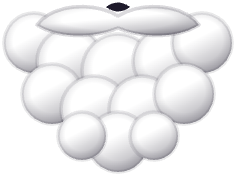
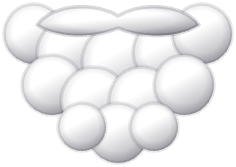
꾸미기 피드백 반영: 뽀글펌 · 야구모자 다시 그리기 · 입 아이템 빼기 · 배경 효과 분리
- 뽀글 펌: 뭉게뭉게 한 덩어리 + 소용돌이 컬 · 앞머리 컬 줄
- 야구 모자: 앞을 보는 챙 · P 로고 패치
- 입(검정 V)이 이미 있어서 방긋 입 · 메롱 빼고 반창고 · 외알 안경 추가 · 산타 수염에 그렸던 입 지우기
- 반짝 · 하트 · 음표는 배경 탭의 '배경 효과'로 옮기고 액세서리에 넥타이 · 진주 목걸이 · 손목시계 추가
- '손' 탭 이름을 '아이템'으로 · 타일은 아이템 크기에 맞춰 잘리지 않게

diff --git a/mobile/scripts/av-art/art.js b/mobile/scripts/av-art/art.js
@@ -42,6 +42,10 @@
   const ln = (d, c, w, o = {}) => `<path d="${d}" fill="none" stroke="${c}" stroke-width="${w}" stroke-linecap="${o.cap || 'round'}" stroke-linejoin="round"${o.op != null ? ` stroke-opacity="${o.op}"` : ''}${o.da ? ` stroke-dasharray="${o.da}"` : ''}/>`;
   const fl = (d, c, op) => `<path d="${d}" fill="${c}"${op != null ? ` opacity="${op}"` : ''}/>`;
   const sp = (x, y, r, c = '#fff') => `<path d="${star(x, y, r, 0.28, 4, -90)}" fill="${c}"/>`;   // 반짝 별(4갈래)
+  /** 뭉게뭉게 테두리 (타원 둘레에 작은 원호 n 개 · 뽀글 머리 · 구름) */
+  const scallop = (cx, cy, rx, ry, n, b) => { const p = (i) => { const a = (i / n) * Math.PI * 2; return `${r1(cx + Math.cos(a) * rx)} ${r1(cy + Math.sin(a) * ry)}`; }; return `M${p(0)}` + [...Array(n)].map((_, i) => `A${b} ${b} 0 0 1 ${p(i + 1)}`).join('') + 'Z'; };
+  /** 작은 소용돌이 컬 */
+  const curl = (x, y, r) => `M${x - r} ${y}a${r} ${r} 0 1 1 ${r} ${r}a${r * 0.55} ${r * 0.55} 0 1 1 ${-r * 0.4} ${-r * 0.9}`;
   const rng = (n, f) => [...Array(n)].map((_, i) => f(i)).join('');
 
   // ---------------------------------------------------------------- 팔 · 다리 띠 (옷 · 장갑 · 신발 자리)
@@ -83,13 +87,14 @@
       P(rr(198, -10, 204, 48, 22), '#FFF4D6') + rng(19, (i) => ln(`M${208 + i * 10} -2 L${208 + i * 10} 30`, INK, 2.4, { op: 0.1 })) +
       P(ell(300, -108, 30, 28), '#FFF4D6') + rng(8, (i) => { const a = (i / 8) * Math.PI * 2; return `<circle cx="${r1(300 + Math.cos(a) * 18)}" cy="${r1(-108 + Math.sin(a) * 16)}" r="3" fill="${INK}" opacity=".07"/>`; }) +
       gl(262, -66, 18, 7, -40, 0.5) },
-    { id: 'h-cap', cover: true, clipY: 36, name: '야구 모자', price: 120, rare: '일반', art: () =>
-      P('M212 30 C208 -52 254 -88 304 -88 C354 -88 394 -52 390 30 Z', '#7FA7E8') +
-      ln('M304 -86 Q300 -30 300 28', INK, 3, { op: 0.16 }) + ln('M304 -86 Q256 -40 240 28', INK, 3, { op: 0.13 }) + ln('M304 -86 Q352 -40 364 28', INK, 3, { op: 0.13 }) +
-      P(star(272, -30, 22, 0.45), '#FFE200', { rim: 0.25 }) +
-      P(ell(304, -90, 10, 6), '#493087') +
-      P('M296 12 C360 -2 436 0 476 20 C484 32 470 44 446 44 C404 42 350 36 296 38 Z', '#493087') +
-      gl(256, -54, 22, 8, -38, 0.5) },
+    { id: 'h-cap', cover: true, clipY: 30, name: '야구 모자', price: 120, rare: '일반', art: () =>
+      P('M214 14 C210 -66 254 -100 300 -100 C346 -100 390 -66 386 14 Z', '#5B8DEF') +
+      ln('M300 -100 Q298 -40 300 12', INK, 3, { op: 0.16 }) + ln('M300 -100 Q250 -56 236 12', INK, 2.6, { op: 0.13 }) + ln('M300 -100 Q350 -56 364 12', INK, 2.6, { op: 0.13 }) +
+      `<circle cx="252" cy="-30" r="3" fill="${INK}" opacity=".18"/><circle cx="348" cy="-30" r="3" fill="${INK}" opacity=".18"/>` +
+      P(ell(300, -102, 11, 6), '#FFFFFF') +
+      P(ell(300, -42, 26, 26), '#FFFFFF', { rim: 0.2 }) + `<text x="300" y="-32" text-anchor="middle" font-family="Arial Black, Arial, sans-serif" font-weight="900" font-size="30" fill="#E5484D">P</text>` +
+      P('M188 10 Q300 -16 412 10 Q428 34 300 40 Q172 34 188 10 Z', '#2F4A8C', { rim: 0.3 }) + ln('M200 14 Q300 -6 400 14', '#FFFFFF', 3, { op: 0.35 }) +
+      gl(254, -66, 20, 8, -38, 0.5) },
     { id: 'h-beret', cover: true, clipY: 40, name: '화가 베레모', price: 120, rare: '일반', art: () =>
       P('M216 24 Q300 44 384 22 L384 36 Q300 58 216 38 Z', '#3A2570') +
       P(ell(312, -12, 110, 40), '#5B3FA6', { t: 'rotate(-9 312 -12)' }) +
@@ -163,8 +168,9 @@
       Hp('M202 50 C196 -40 404 -40 398 50 Z', H) + P(ell(228, 4, 14, 18), '#FFE200', { t: 'rotate(-20 228 4)' }) + st('M116 -2 Q140 -26 178 -24', 0.4, 5),
       front: (H) => Hp('M208 34 C206 -8 300 -28 392 18 C356 6 318 10 292 28 C272 14 238 18 208 34 Z', H, { hi: 0.7 }) },
     { id: 'hr-curly', name: '뽀글 펌', price: 200, rare: '레어', back: (H) =>
-      Hp('M196 52 C176 20 190 -20 214 -26 C214 -60 250 -80 276 -70 C290 -96 330 -96 344 -72 C372 -82 404 -58 392 -24 C418 -16 424 24 404 52 Z', H) + [[232, -30], [278, -56], [326, -58], [370, -32], [216, 14], [390, 14]].map(([x, y]) => ln(`M${x - 10} ${y + 6} q10 -14 20 0`, '#fff', 4, { op: 0.35 })).join(''),
-      front: (H) => [[232, 16, 17], [264, 6, 19], [300, 8, 17], [336, 6, 19], [368, 16, 17]].map(([x, y, r]) => Hp(ell(x, y, r, r), H, { rim: 0.16 })).join('') },
+      Hp(scallop(300, -20, 124, 92, 18, 24), H) +
+      [[240, -60], [290, -82], [344, -70], [384, -30], [214, -10], [262, -24], [318, -40], [366, 6], [228, 30], [392, 34]].map(([x, y], i) => ln(curl(x, y, 8 + (i % 3) * 2), INK, 3, { op: 0.18 }) + ln(`M${x - 6} ${y - 6} q5 -5 11 -3`, '#fff', 3.5, { op: 0.45 })).join(''),
+      front: (H) => Hp('M210 30 C212 -16 388 -16 390 30' + [...Array(8)].map((_, i) => `A13 13 0 0 1 ${390 - (i + 1) * 22.5} 30`).join('') + 'Z', H, { hi: 0.7 }) + [[236, 10], [276, 2], [318, 2], [360, 10]].map(([x, y]) => ln(curl(x, y, 7), INK, 2.6, { op: 0.16 })).join('') },
     { id: 'hr-long', name: '긴 생머리', price: 250, rare: '레어', back: (H) =>
       Hp('M194 60 C176 -48 424 -48 406 60 C424 122 446 186 440 250 C420 264 394 262 378 246 L300 110 L222 246 C206 262 180 264 160 250 C154 186 176 122 194 60 Z', H) + st('M424 150 Q436 200 430 238', 0.35, 5) + st('M176 150 Q166 200 170 238', 0.35, 5),
       front: (H) => Hp('M300 -24 C262 -24 222 -6 212 38 C210 52 208 62 202 72 C190 40 194 0 228 -20 C250 -30 280 -32 300 -24 Z', H, { hi: 0.6 }) + Hp('M300 -24 C338 -24 378 -6 388 38 C390 52 392 62 398 72 C410 40 406 0 372 -20 C350 -30 320 -32 300 -24 Z', H, { hi: 0.6 }) },
@@ -215,9 +221,11 @@
     { id: 'f-cheek', name: '발그레 볼', price: 0, rare: '기본', art: () => `<ellipse cx="230" cy="138" rx="30" ry="17" fill="url(#avBlush)"/><ellipse cx="372" cy="140" rx="30" ry="17" fill="url(#avBlush)"/>` + gl(222, 134, 5, 3, 0, 0.7) + gl(364, 136, 5, 3, 0, 0.7) },
     { id: 'f-cheek3', name: '하트 볼', price: 150, rare: '일반', art: () => `<ellipse cx="230" cy="138" rx="28" ry="15" fill="url(#avBlush)" opacity=".7"/><ellipse cx="372" cy="140" rx="28" ry="15" fill="url(#avBlush)" opacity=".7"/>` + P(heart(230, 140, 26), '#FF5C8A', { rim: 0.2 }) + P(heart(372, 142, 26), '#FF5C8A', { rim: 0.2 }) },
     { id: 'f-freck', name: '주근깨', price: 80, rare: '일반', art: () => [[214, 132], [226, 142], [238, 130], [222, 124], [362, 132], [374, 142], [386, 130], [378, 124]].map(([x, y], i) => `<circle cx="${x}" cy="${y}" r="${i % 3 ? 3 : 3.8}" fill="#A0582A" opacity=".75"/>`).join('') },
-    { id: 'f-smile', name: '방긋 입', price: 100, rare: '일반', art: () => P('M280 138 Q300 140 320 138 Q318 166 300 166 Q282 166 280 138 Z', '#5A1E2E', { rim: 0.4 }) + fl('M287 156 Q300 148 313 156 Q308 165 300 165 Q292 165 287 156 Z', '#FF7A8A') + gl(292, 143, 6, 2, 0, 0.6) },
-    { id: 'f-tongue', name: '메롱', price: 120, rare: '일반', art: () => P('M300 148 L300 166 Q300 180 310 180 Q320 180 320 166 L320 148 Z', '#FF6F8A', { rim: 0.3 }) + ln('M310 152 L310 168', '#C93D5A', 2.4, { op: 0.6 }) + ln('M278 144 Q300 156 324 142', INK, 5) },
-    { id: 'f-stache', name: '멋쟁이 콧수염', price: 120, rare: '일반', art: () => P('M300 136 C290 128 274 128 266 136 C258 144 246 144 240 136 C240 152 262 158 280 150 C290 146 296 142 300 142 C304 142 310 146 320 150 C338 158 360 152 360 136 C354 144 342 144 334 136 C326 128 310 128 300 136 Z', '#3B2A20', { rim: 0.3 }) + gl(276, 136, 8, 2.5, 0, 0.35) + gl(326, 136, 8, 2.5, 0, 0.35) },
+    { id: 'f-bandaid', name: '반창고', price: 80, rare: '일반', art: () => `<g transform="rotate(-22 374 136)">` + P(rr(344, 126, 60, 22, 11), '#F2C49B', { rim: 0.25 }) + P(rr(362, 128, 24, 18, 5), '#E3A97B', { rim: 0, hi: 0.3 }) + rng(4, (i) => `<circle cx="${366 + (i % 2) * 10}" cy="${133 + Math.floor(i / 2) * 8}" r="1.6" fill="#B97A52"/>`) + `</g>` },
+    { id: 'f-mono', name: '외알 안경', price: 250, rare: '레어', art: () =>
+      `<path d="${ell(341, 67, 50, 64)}" fill="url(#avGlass)"/>` + `<path d="${ell(341, 67, 50, 64)} ${ell(341, 67, 42, 56)}" fill="url(#avGold)" fill-rule="evenodd"/>` + `<path d="${ell(341, 67, 50, 64)}" fill="none" stroke="${INK}" stroke-opacity=".3" stroke-width="2"/>` +
+      ln('M384 98 Q404 150 380 196', '#E0A21A', 3, { da: '1 6' }) + ln('M384 98 Q404 150 380 196', '#FFCB2E', 2.4, { da: '4 4' }) + ln('M314 30 Q326 14 344 10', '#fff', 4, { op: 0.75 }) + ln('M322 118 l16 -34', '#fff', 5, { op: 0.4 }) },
+    { id: 'f-stache', name: '멋쟁이 콧수염', price: 120, rare: '일반', art: () => '<g transform="translate(0 8)">' + P('M300 136 C290 128 274 128 266 136 C258 144 246 144 240 136 C240 152 262 158 280 150 C290 146 296 142 300 142 C304 142 310 146 320 150 C338 158 360 152 360 136 C354 144 342 144 334 136 C326 128 310 128 300 136 Z', '#3B2A20', { rim: 0.3 }) + gl(276, 136, 8, 2.5, 0, 0.35) + gl(326, 136, 8, 2.5, 0, 0.35) + '</g>' },
     { id: 'f-glasses', name: '동그란 안경', price: 200, rare: '일반', art: () =>
       `<path d="${ell(257, 66, 52, 66)}" fill="url(#avGlass)"/><path d="${ell(341, 67, 52, 66)}" fill="url(#avGlass)"/>` +
       `<path d="${ell(257, 66, 52, 66)} ${ell(257, 66, 44, 58)}" fill="#8A5A3B" fill-rule="evenodd"/><path d="${ell(341, 67, 52, 66)} ${ell(341, 67, 44, 58)}" fill="#8A5A3B" fill-rule="evenodd"/>` +
@@ -231,15 +239,15 @@
       ln('M200 18 Q260 8 330 30 L420 58', INK, 7) + P(ell(340, 68, 42, 60), '#2A2533', { rim: 0.4 }) + P(star(340, 66, 13, 0.42), '#FFFFFF', { rim: 0, flat: 1 }) + ln('M330 18 L420 58', '#2A2533', 7) },
     { id: 'f-beard', name: '산타 수염', price: 0, rare: '시즌', lock: '12월 출석 7일 보상', art: () =>
       [[244, 152, 20], [268, 164, 22], [300, 170, 24], [332, 164, 22], [356, 152, 20], [256, 186, 20], [284, 196, 22], [316, 196, 22], [344, 186, 20], [300, 218, 20], [276, 214, 16], [324, 214, 16]].map(([x, y, r]) => P(ell(x, y, r, r), '#FFFFFF', { rim: 0.1, hi: 0.5 })).join('') +
-      P('M300 134 C284 124 256 126 246 140 C262 150 286 148 300 142 C314 148 338 150 354 140 C344 126 316 124 300 134 Z', '#FFFFFF', { rim: 0.16 }) + `<path d="M292 128 q8 -6 16 0 q-8 6 -16 0Z" fill="${INK}"/>` },
+      P('M300 140 C284 130 256 132 246 146 C262 156 286 154 300 148 C314 154 338 156 354 146 C344 132 316 130 300 140 Z', '#FFFFFF', { rim: 0.16 }) },
   ];
 
   // ---------------------------------------------------------------- 옷 (몸에 칠해요)
   const pants = (s1 = 0.86) => `${band('ll', 0.26, s1, 0.04, 0.03)} ${band('lr', 0.26, s1, 0.04, 0.03)} M96 190 H420 V236 H96 Z`;
   const WEARS = [
     { id: 'w-tee', name: '줄무늬 티셔츠', price: 0, rare: '기본', art: () => paint(
-      fl(top(112, 400), '#FFFFFF') + `<clipPath id="tc${U}"><path d="${top(112, 400)}" fill-rule="evenodd"/></clipPath>` +
-      `<g clip-path="url(#tc${U})">${rng(9, (i) => fl(`M0 ${-4 + i * 26} H520 V${12 + i * 26} H0Z`, '#2F4A8C'))}</g>` +
+      fl(top(112, 400), '#FFFFFF') + `<clipPath id="te${U}"><path d="${top(112, 400)}" fill-rule="evenodd"/></clipPath>` +
+      `<g clip-path="url(#te${U})">${rng(9, (i) => fl(`M0 ${-4 + i * 26} H520 V${12 + i * 26} H0Z`, '#2F4A8C'))}</g>` +
       ln(NECK.replace(' Z', ''), '#2F4A8C', 12) + ln('M112 40 Q122 112 112 184', '#E5484D', 18, { cap: 'butt' }) + ln('M400 40 Q390 112 400 184', '#E5484D', 18, { cap: 'butt' })) },
     { id: 'w-hoodie', name: '포근 후드티', price: 200, rare: '일반', art: () => paint(
       `<path d="${top(56, 446, 216)}" fill="#B9A7F0" fill-rule="evenodd"/>` +
@@ -411,9 +419,19 @@
     { id: 'a-bag', name: '미니 크로스백', price: 200, rare: '일반', layer: 'front', art: () =>
       ln('M402 50 C392 140 320 176 196 196', '#8A5A3B', 10) + ln('M402 50 C392 140 320 176 196 196', '#FFFFFF', 2, { op: 0.4, da: '4 6' }) +
       P(rr(132, 176, 92, 70, 18), '#C68B4E') + P('M132 196 Q132 176 152 176 L204 176 Q224 176 224 196 L224 214 Q178 234 132 214 Z', '#A86E38') + P(rr(170, 208, 16, 14, 4), 'url(#avGold)') },
-    { id: 'a-spark', name: '반짝반짝 효과', price: 400, rare: '에픽', layer: 'fx', art: () => FX([[38, 40, 13, '#FFE200'], [262, 54, 11, '#FFE200'], [30, 160, 9, '#FFFFFF'], [272, 166, 12, '#FFE200'], [150, 22, 8, '#FFFFFF'], [228, 22, 6, '#FFFFFF'], [70, 96, 6, '#FFE200']].map(([x, y, r, c]) => P(star(x, y, r * 2, 0.26, 4, -90), c, { rim: 0.35, sw: 1.6 })).join('')) },
-    { id: 'a-hearts', name: '하트 뿅뿅', price: 400, rare: '에픽', layer: 'fx', art: () => FX([[44, 60, 34], [256, 44, 28], [266, 160, 38], [34, 168, 24], [210, 22, 18], [96, 26, 16]].map(([x, y, s], i) => glossHeart(x, y, s, i % 2 ? '#FF7AA3' : '#FF5C8A')).join('')) },
-    { id: 'a-notes', name: '음표 둥둥', price: 300, rare: '레어', layer: 'fx', art: () => FX([[48, 46, '#8B5CF6'], [250, 36, '#2F6FD0'], [262, 146, '#E5484D'], [36, 150, '#2DD4BF']].map(([x, y, c], i) => (i % 2 ? `<path d="M${x} ${y} L${x} ${y + 34} M${x + 26} ${y - 6} L${x + 26} ${y + 28}" stroke="${c}" stroke-width="5"/><path d="M${x - 2} ${y - 2} L${x + 28} ${y - 8} L${x + 28} ${y + 2} L${x - 2} ${y + 8}Z" fill="${c}"/>${P(ell(x - 7, y + 36, 10, 8), c, { t: `rotate(-20 ${x - 7} ${y + 36})` })}${P(ell(x + 19, y + 30, 10, 8), c, { t: `rotate(-20 ${x + 19} ${y + 30})` })}` : `<path d="M${x} ${y} L${x} ${y + 34}" stroke="${c}" stroke-width="5"/><path d="M${x} ${y} q16 4 18 22 q-6 -10 -18 -12z" fill="${c}"/>${P(ell(x - 7, y + 36, 10, 8), c, { t: `rotate(-20 ${x - 7} ${y + 36})` })}`)).join('')) },
+    { id: 'a-tie', name: '줄무늬 넥타이', price: 120, rare: '일반', layer: 'front', art: () => { const u = 'ti' + U++; return (
+      `<clipPath id="${u}"><path d="M288 176 L312 176 L320 232 L300 252 L280 232 Z"/></clipPath>` + P('M288 176 L312 176 L320 232 L300 252 L280 232 Z', '#2F4A8C') + `<g clip-path="url(#${u})">${rng(5, (i) => ln(`M270 ${186 + i * 16} L330 ${170 + i * 16}`, '#FFE200', 5, { op: 0.9 }))}</g>` + P('M286 160 L314 160 L310 178 L290 178 Z', '#24396E')); } },
+    { id: 'a-pearl', name: '진주 목걸이', price: 250, rare: '레어', layer: 'front', art: () =>
+      rng(17, (i) => { const t = i / 16, x = 212 + t * 176, y = 122 + Math.sin(t * Math.PI) * 52; return P(ell(r1(x), r1(y), 7, 7), '#FBF7F2', { rim: 0.2, hi: 0.9 }) + gl(r1(x - 2), r1(y - 2.5), 2, 1.4, 0, 0.95); }) + P(drop(300, 192, 14), '#F7B6CC', { rim: 0.25 }) + gl(296, 186, 3, 5, 0, 0.9) },
+    { id: 'a-watch', name: '손목시계', price: 150, rare: '일반', layer: 'front', art: () =>
+      P(rr(104, 56, 26, 112, 12), '#493087') + P(ell(117, 112, 24, 24), 'url(#avSilver)', { rim: 0.35 }) + P(ell(117, 112, 18, 18), '#FFFFFF', { rim: 0.2, hi: 0.4 }) + ln('M117 112 L117 100 M117 112 L126 117', INK, 3) + `<circle cx="117" cy="112" r="2.2" fill="#E5484D"/>` + gl(110, 104, 5, 3, -30, 0.8) },
+  ];
+
+  // ---------------------------------------------------------------- 배경 효과 (무대 위에 · 배경과 같이 써요)
+  const FXS = [
+    { id: 'fx-spark', name: '반짝반짝', price: 400, rare: '에픽', art: () => FX([[38, 40, 13, '#FFE200'], [262, 54, 11, '#FFE200'], [30, 160, 9, '#FFFFFF'], [272, 166, 12, '#FFE200'], [150, 22, 8, '#FFFFFF'], [228, 22, 6, '#FFFFFF'], [70, 96, 6, '#FFE200']].map(([x, y, r, c]) => P(star(x, y, r * 2, 0.26, 4, -90), c, { rim: 0.35, sw: 1.6 })).join('')) },
+    { id: 'fx-hearts', name: '하트 뿅뿅', price: 400, rare: '에픽', art: () => FX([[44, 60, 34], [256, 44, 28], [266, 160, 38], [34, 168, 24], [210, 22, 18], [96, 26, 16]].map(([x, y, s], i) => glossHeart(x, y, s, i % 2 ? '#FF7AA3' : '#FF5C8A')).join('')) },
+    { id: 'fx-notes', name: '음표 둥둥', price: 300, rare: '레어', art: () => FX([[48, 46, '#8B5CF6'], [250, 36, '#2F6FD0'], [262, 146, '#E5484D'], [36, 150, '#2DD4BF']].map(([x, y, c], i) => (i % 2 ? `<path d="M${x} ${y} L${x} ${y + 34} M${x + 26} ${y - 6} L${x + 26} ${y + 28}" stroke="${c}" stroke-width="5"/><path d="M${x - 2} ${y - 2} L${x + 28} ${y - 8} L${x + 28} ${y + 2} L${x - 2} ${y + 8}Z" fill="${c}"/>${P(ell(x - 7, y + 36, 10, 8), c, { t: `rotate(-20 ${x - 7} ${y + 36})` })}${P(ell(x + 19, y + 30, 10, 8), c, { t: `rotate(-20 ${x + 19} ${y + 30})` })}` : `<path d="M${x} ${y} L${x} ${y + 34}" stroke="${c}" stroke-width="5"/><path d="M${x} ${y} q16 4 18 22 q-6 -10 -18 -12z" fill="${c}"/>${P(ell(x - 7, y + 36, 10, 8), c, { t: `rotate(-20 ${x - 7} ${y + 36})` })}`)).join('')) },
   ];
 
   // ---------------------------------------------------------------- 배경 (무대 300 × 220 · 캐릭터 발밑 그림자 포함)
@@ -486,6 +504,7 @@
     ...cat(SHOES, 'shoe', 'paint'),
     ...cat(HANDS, 'hand', 'back'),
     ...cat(ACCS, 'acc', 'front'),
+    ...cat(FXS, 'fx', 'fx'),
   ];
   const V = '-140 -260 800 640';
   const svg = (body, vb = V) => `<svg xmlns="http://www.w3.org/2000/svg" viewBox="${vb}">${DEFS}${body}</svg>`;

diff --git a/mobile/src/components/character/av-assets.ts b/mobile/src/components/character/av-assets.ts
@@ -40,8 +40,8 @@ export const AV_ART: Record<string, number> = {
   'f-cheek': require('@/assets/characters/av/f-cheek.png'),
   'f-cheek3': require('@/assets/characters/av/f-cheek3.png'),
   'f-freck': require('@/assets/characters/av/f-freck.png'),
-  'f-smile': require('@/assets/characters/av/f-smile.png'),
-  'f-tongue': require('@/assets/characters/av/f-tongue.png'),
+  'f-bandaid': require('@/assets/characters/av/f-bandaid.png'),
+  'f-mono': require('@/assets/characters/av/f-mono.png'),
   'f-stache': require('@/assets/characters/av/f-stache.png'),
   'f-glasses': require('@/assets/characters/av/f-glasses.png'),
   'f-shades': require('@/assets/characters/av/f-shades.png'),
@@ -94,9 +94,12 @@ export const AV_ART: Record<string, number> = {
   'a-wings': require('@/assets/characters/av/a-wings.png'),
   'a-cape': require('@/assets/characters/av/a-cape.png'),
   'a-bag': require('@/assets/characters/av/a-bag.png'),
-  'a-spark': require('@/assets/characters/av/a-spark.png'),
-  'a-hearts': require('@/assets/characters/av/a-hearts.png'),
-  'a-notes': require('@/assets/characters/av/a-notes.png'),
+  'a-tie': require('@/assets/characters/av/a-tie.png'),
+  'a-pearl': require('@/assets/characters/av/a-pearl.png'),
+  'a-watch': require('@/assets/characters/av/a-watch.png'),
+  'fx-spark': require('@/assets/characters/av/fx-spark.png'),
+  'fx-hearts': require('@/assets/characters/av/fx-hearts.png'),
+  'fx-notes': require('@/assets/characters/av/fx-notes.png'),
 };
 
 export const AV_HAIR_FILL: Record<string, number> = {
@@ -136,7 +139,7 @@ export const AV_GEO: Record<string, AvGeo> = {
   'hr-bob': { k: 'hair', back: [0.3564, -0.1707, 0.441, 0.3956], front: [0.3846, -0.0683, 0.3846, 0.2711], cap: [0.3564, -0.004, 0.441, 0.2289], side: [0.3564, 0.0201, 0.441, 0.3012] },
   'hr-pig': { k: 'hair', back: [0.2013, -0.0683, 0.7513, 0.3112], front: [0.3987, -0.0763, 0.3564, 0.1747], cap: [0.2013, -0.0683, 0.7513, 0.3112], side: [0.3705, 0.0321, 0.4128, 0.1928] },
   'hr-pony': { k: 'hair', back: [0.1756, -0.1084, 0.5949, 0.3454], front: [0.3949, -0.0341, 0.3641, 0.1446], cap: [0.1756, -0.1084, 0.5949, 0.3454], side: [0.3705, 0.0321, 0.4128, 0.1928] },
-  'hr-curly': { k: 'hair', back: [0.3538, -0.2791, 0.4513, 0.4438], front: [0.4077, -0.0482, 0.3385, 0.1566], cap: [0.3538, -0.2269, 0.4513, 0.3916], side: [0.3564, 0.0482, 0.441, 0.2369] },
+  'hr-curly': { k: 'hair', back: [0.3269, -0.3815, 0.5, 0.6426], front: [0.3987, -0.0241, 0.3564, 0.1426], cap: [0.3269, -0.3815, 0.5, 0.6426], side: [0.3564, 0.0482, 0.441, 0.2369] },
   'hr-long': { k: 'hair', back: [0.3, -0.0723, 0.5538, 0.8614], front: [0.3718, -0.0964, 0.4103, 0.3213], cap: [0.3, 0.1285, 0.5538, 0.6606], side: [0.3526, 0.0201, 0.4487, 0.4398] },
   'e-sparkle': { k: 'box', r: [0.4744, 0.0783, 0.2282, 0.1847] },
   'e-lash': { k: 'box', r: [0.3897, -0.0462, 0.3705, 0.1867] },
@@ -149,7 +152,7 @@ export const AV_GEO: Record<string, AvGeo> = {
   'e-star': { k: 'box', r: [0.4641, 0.1185, 0.2654, 0.1667] },
   'e-teary': { k: 'box', r: [0.4821, 0.1124, 0.2603, 0.3173] },
   'h-beanie': { k: 'box', r: [0.3756, -0.4177, 0.4026, 0.5402] },
-  'h-cap': { k: 'box', r: [0.4026, -0.2972, 0.5231, 0.4378] },
+  'h-cap': { k: 'box', r: [0.3526, -0.3333, 0.4487, 0.4618] },
   'h-beret': { k: 'box', r: [0.3859, -0.2329, 0.4282, 0.3835] },
   'h-straw': { k: 'box', r: [0.2718, -0.2129, 0.6103, 0.3896] },
   'h-bunny': { k: 'box', r: [0.3949, -0.4739, 0.3641, 0.5843] },
@@ -161,13 +164,13 @@ export const AV_GEO: Record<string, AvGeo> = {
   'f-cheek': { k: 'box', r: [0.3821, 0.3614, 0.3936, 0.1145] },
   'f-cheek3': { k: 'box', r: [0.3872, 0.3675, 0.3833, 0.1044] },
   'f-freck': { k: 'box', r: [0.4013, 0.3574, 0.3513, 0.0843] },
-  'f-smile': { k: 'box', r: [0.5333, 0.4076, 0.0872, 0.1004] },
-  'f-tongue': { k: 'box', r: [0.5269, 0.4157, 0.1038, 0.1345] },
-  'f-stache': { k: 'box', r: [0.4564, 0.3835, 0.241, 0.0863] },
+  'f-bandaid': { k: 'box', r: [0.659, 0.3494, 0.1218, 0.1265] },
+  'f-mono': { k: 'box', r: [0.5551, 0.002, 0.2064, 0.5924] },
+  'f-stache': { k: 'box', r: [0.4564, 0.4076, 0.241, 0.0863] },
   'f-glasses': { k: 'box', r: [0.3474, -0.004, 0.4551, 0.4096] },
   'f-shades': { k: 'box', r: [0.3513, -0.0261, 0.4474, 0.3795] },
   'f-patch': { k: 'box', r: [0.3744, 0.0161, 0.4436, 0.3775] },
-  'f-beard': { k: 'box', r: [0.4256, 0.3715, 0.3026, 0.3534] },
+  'f-beard': { k: 'box', r: [0.4256, 0.3896, 0.3026, 0.3353] },
   'w-tee': { k: 'box', r: [0.1974, 0.0261, 0.5897, 0.6707] },
   'w-hoodie': { k: 'box', r: [0.0872, 0.0261, 0.791, 0.6867] },
   'w-overall': { k: 'box', r: [0.1974, 0.1506, 0.6256, 0.7912] },
@@ -215,9 +218,12 @@ export const AV_GEO: Record<string, AvGeo> = {
   'a-wings': { k: 'box', r: [-0.0628, -0.2149, 1.2795, 0.4337] },
   'a-cape': { k: 'box', r: [0.1295, -0.008, 0.8949, 0.9799] },
   'a-bag': { k: 'box', r: [0.2487, 0.1305, 0.5372, 0.6185] },
-  'a-spark': { k: 'stage', r: [0.0344, 0.0197, 0.9578, 0.8515] },
-  'a-hearts': { k: 'stage', r: [0.0589, 0.0439, 0.9111, 0.7788] },
-  'a-notes': { k: 'stage', r: [0.0578, 0.1242, 0.8778, 0.7682] },
+  'a-tie': { k: 'box', r: [0.5333, 0.4739, 0.0872, 0.2932] },
+  'a-pearl': { k: 'box', r: [0.3885, 0.3373, 0.3769, 0.2932] },
+  'a-watch': { k: 'box', r: [0.1731, 0.1606, 0.1038, 0.3534] },
+  'fx-spark': { k: 'stage', r: [0.0344, 0.0197, 0.9578, 0.8515] },
+  'fx-hearts': { k: 'stage', r: [0.0589, 0.0439, 0.9111, 0.7788] },
+  'fx-notes': { k: 'stage', r: [0.0578, 0.1242, 0.8778, 0.7682] },
 };
 
 export const AV_BG_ART: Record<string, number> = {

diff --git a/mobile/src/data/av-items.ts b/mobile/src/data/av-items.ts
@@ -26,7 +26,7 @@ export const AV_ITEMS: AvItem[] = [
   { id: 'e-star', cat: 'eye', name: '별 눈', price: 250, rare: '레어', layer: 'eye' },
   { id: 'e-teary', cat: 'eye', name: '감동 눈물', price: 200, rare: '레어', layer: 'eye' },
   { id: 'h-beanie', cat: 'hat', name: '털 비니', price: 0, rare: '기본', layer: 'back', hat: true, cover: true, clipY: 38 },
-  { id: 'h-cap', cat: 'hat', name: '야구 모자', price: 120, rare: '일반', layer: 'back', hat: true, cover: true, clipY: 36 },
+  { id: 'h-cap', cat: 'hat', name: '야구 모자', price: 120, rare: '일반', layer: 'back', hat: true, cover: true, clipY: 30 },
   { id: 'h-beret', cat: 'hat', name: '화가 베레모', price: 120, rare: '일반', layer: 'back', hat: true, cover: true, clipY: 40 },
   { id: 'h-straw', cat: 'hat', name: '밀짚모자', price: 180, rare: '일반', layer: 'back', hat: true, cover: true, clipY: 54 },
   { id: 'h-bunny', cat: 'hat', name: '토끼 귀 머리띠', price: 300, rare: '레어', layer: 'back', hat: true },
@@ -38,8 +38,8 @@ export const AV_ITEMS: AvItem[] = [
   { id: 'f-cheek', cat: 'face', name: '발그레 볼', price: 0, rare: '기본', layer: 'front' },
   { id: 'f-cheek3', cat: 'face', name: '하트 볼', price: 150, rare: '일반', layer: 'front' },
   { id: 'f-freck', cat: 'face', name: '주근깨', price: 80, rare: '일반', layer: 'front' },
-  { id: 'f-smile', cat: 'face', name: '방긋 입', price: 100, rare: '일반', layer: 'front' },
-  { id: 'f-tongue', cat: 'face', name: '메롱', price: 120, rare: '일반', layer: 'front' },
+  { id: 'f-bandaid', cat: 'face', name: '반창고', price: 80, rare: '일반', layer: 'front' },
+  { id: 'f-mono', cat: 'face', name: '외알 안경', price: 250, rare: '레어', layer: 'front' },
   { id: 'f-stache', cat: 'face', name: '멋쟁이 콧수염', price: 120, rare: '일반', layer: 'front' },
   { id: 'f-glasses', cat: 'face', name: '동그란 안경', price: 200, rare: '일반', layer: 'front' },
   { id: 'f-shades', cat: 'face', name: '하트 선글라스', price: 300, rare: '레어', layer: 'front' },
@@ -92,9 +92,12 @@ export const AV_ITEMS: AvItem[] = [
   { id: 'a-wings', cat: 'acc', name: '천사 날개', price: 700, rare: '에픽', layer: 'back' },
   { id: 'a-cape', cat: 'acc', name: '히어로 망토', price: 350, rare: '레어', layer: 'back' },
   { id: 'a-bag', cat: 'acc', name: '미니 크로스백', price: 200, rare: '일반', layer: 'front' },
-  { id: 'a-spark', cat: 'acc', name: '반짝반짝 효과', price: 400, rare: '에픽', layer: 'fx' },
-  { id: 'a-hearts', cat: 'acc', name: '하트 뿅뿅', price: 400, rare: '에픽', layer: 'fx' },
-  { id: 'a-notes', cat: 'acc', name: '음표 둥둥', price: 300, rare: '레어', layer: 'fx' },
+  { id: 'a-tie', cat: 'acc', name: '줄무늬 넥타이', price: 120, rare: '일반', layer: 'front' },
+  { id: 'a-pearl', cat: 'acc', name: '진주 목걸이', price: 250, rare: '레어', layer: 'front' },
+  { id: 'a-watch', cat: 'acc', name: '손목시계', price: 150, rare: '일반', layer: 'front' },
+  { id: 'fx-spark', cat: 'fx', name: '반짝반짝', price: 400, rare: '에픽', layer: 'fx' },
+  { id: 'fx-hearts', cat: 'fx', name: '하트 뿅뿅', price: 400, rare: '에픽', layer: 'fx' },
+  { id: 'fx-notes', cat: 'fx', name: '음표 둥둥', price: 300, rare: '레어', layer: 'fx' },
 ];
 
 export const AV_BG: AvBg[] = [

diff --git a/mobile/src/components/character/avatar.tsx b/mobile/src/components/character/avatar.tsx
@@ -265,14 +265,25 @@ const TILE_VIEW: Record<string, readonly [number, number, number, number]> = {
   acc: [-90, -110, 700, 450],
 };
 
+/** 손에 든 아이템: 아이템 자리 + 쥔 손 끝을 다 담는 칸 (길쭉한 깃발 · 우산도 안 잘려요) */
+function itemView(id: string): readonly [number, number, number, number] {
+  const g = AV_GEO[id];
+  if (!g || g.k !== 'box') return TILE_VIEW.hand;
+  const x0 = Math.min(g.r[0] * 520, 420) - 12;
+  const y0 = Math.min(g.r[1] * 332, 60) - 12;
+  const x1 = Math.max((g.r[0] + g.r[2]) * 520, 500) + 12;
+  const y1 = Math.max((g.r[1] + g.r[3]) * 332, 150) + 12;
+  return [x0, y0, x1 - x0, y1 - y0];
+}
+
 /**
  * 상점 타일 그림: 노랑 캐릭터에 그 아이템 하나만 입혀서, 아이템이 있는 부분만 보여 줘요 (캐릭터에 어떻게 맞는지 바로 보여요).
  * 헤어는 고르는 중인 머리 색으로.
  */
 export function ItemArt({ it, width, height, hc = '#3B2A20' }: { it: AvItem; width: number; height: number; hc?: string }) {
-  const [vx, vy, vw, vh] = TILE_VIEW[it.cat] ?? TILE_VIEW.acc;
+  const [vx, vy, vw, vh] = it.cat === 'hand' ? itemView(it.id) : (TILE_VIEW[it.cat] ?? TILE_VIEW.acc);
   const k = Math.min(width / vw, height / vh);
-  const av = useMemo<Avatar>(() => ({ color: 'yellow', flip: false, bg: 'cream', hc, say: '', eq: { hair: null, eye: null, mitt: null, shoe: null, hat: null, face: null, wear: null, hand: null, acc: null, [it.cat]: it.id } }), [it, hc]);
+  const av = useMemo<Avatar>(() => ({ color: 'yellow', flip: false, bg: 'cream', hc, say: '', eq: { hair: null, eye: null, mitt: null, shoe: null, hat: null, face: null, wear: null, hand: null, acc: null, fx: null, [it.cat]: it.id } }), [it, hc]);
   return (
     <View style={{ width, height, overflow: 'hidden' }}>
       <AvatarChar av={av} width={520 * k} blink={false} style={{ position: 'absolute', left: -vx * k + (width - vw * k) / 2, top: -vy * k + (height - vh * k) / 2 }} />

diff --git a/mobile/src/data/my.ts b/mobile/src/data/my.ts
@@ -10,7 +10,8 @@ import { AV_BG, AV_ITEMS } from './av-items';
 
 // ---------------------------------------------------------------- 꾸미기 (스파크 상점)
 
-export type AvCat = 'hair' | 'eye' | 'mitt' | 'shoe' | 'hat' | 'face' | 'wear' | 'hand' | 'acc';
+/** fx = 배경 효과 (배경 탭에서 골라요 · 무대 위에 겹쳐요) */
+export type AvCat = 'hair' | 'eye' | 'mitt' | 'shoe' | 'hat' | 'face' | 'wear' | 'hand' | 'acc' | 'fx';
 export type AvRare = '기본' | '일반' | '레어' | '에픽' | '시즌';
 /** back: 캐릭터 뒤 · front: 앞 · paint: 몸에 칠한 옷 · eye: 눈 위 덧그림 · fx: 배경 위 효과 */
 export type AvLayer = 'back' | 'front' | 'paint' | 'eye' | 'fx';
@@ -74,7 +75,7 @@ export const AV_CATS: readonly (readonly [AvTab, string])[] = [
   ['wear', '옷'],
   ['mitt', '장갑'],
   ['shoe', '신발'],
-  ['hand', '손'],
+  ['hand', '아이템'],
   ['acc', '액세서리'],
   ['bg', '배경'],
   ['say', '한마디'],
@@ -100,7 +101,7 @@ export const avFresh = (): Avatar => ({
   bg: 'cream',
   hc: '#3B2A20',
   say: '',
-  eq: { hair: null, eye: null, mitt: null, shoe: 's-purple', hat: 'h-beanie', face: null, wear: 'w-tee', hand: 'd-flag', acc: 'a-bow' },
+  eq: { hair: null, eye: null, mitt: null, shoe: 's-purple', hat: 'h-beanie', face: null, wear: 'w-tee', hand: 'd-flag', acc: 'a-bow', fx: null },
 });
 /** 처음부터 가진 것: 기본 등급 아이템 · 배경 */
 export const AV_OWN0 = ['yellow', 'purple', 'cream', 'yellow-bg', ...AV_ITEMS.filter((i) => i.rare === '기본').map((i) => i.id), ...AV_BG.filter((b) => b.rare === '기본').map((b) => 'bg:' + b.id)];
@@ -154,6 +155,7 @@ export function memberAvatar(name: string): Avatar {
       mitt: h % 3 === 1 ? idOf(pick(of('mitt', true), 9)) : null,
       eye: h % 2 ? idOf(pick(of('eye', true), 10)) : null,
       acc: null,
+      fx: null,
     },
   };
 }

diff --git a/mobile/src/app/me/customize.tsx b/mobile/src/app/me/customize.tsx
@@ -82,6 +82,7 @@ export default function CustomizeScreen() {
     edit((x) => {
       if (cat === 'char') x.color = key;
       else if (key.startsWith('bg:')) x.bg = key.slice(3);
+      else if (key.startsWith('fx-')) x.eq.fx = x.eq.fx === key ? null : key;
       else if (cat !== 'say' && cat !== 'bg') x.eq[cat] = x.eq[cat] === key ? null : key;
     });
   };
@@ -104,7 +105,7 @@ export default function CustomizeScreen() {
     }
     if (k === 'rand') {
       edit((x) => {
-        (['eye', 'hat', 'face', 'wear', 'mitt', 'shoe', 'hand', 'acc'] as AvCat[]).forEach((c) => {
+        (['eye', 'hat', 'face', 'wear', 'mitt', 'shoe', 'hand', 'acc', 'fx'] as AvCat[]).forEach((c) => {
           const L = AV_ITEMS.filter((i) => i.cat === c && !i.lock && !i.hair);
           x.eq[c] = Math.random() < 0.25 ? null : pk(L).id;
         });
@@ -215,6 +216,8 @@ export default function CustomizeScreen() {
             ),
           )}
         </View>
+        {sub('배경 효과')}
+        <View style={styles.tiles}>{AV_ITEMS.filter((i) => i.cat === 'fx').map((i) => tile(i.id, i.name, i.price, i.rare, d.eq.fx === i.id, itemArt(i), i.lock))}</View>
       </>
     );
   } else if (cat === 'say') {

diff --git a/mobile/scripts/av-art/lab.html b/mobile/scripts/av-art/lab.html
@@ -55,7 +55,7 @@ function stage(eq, bg = 'cream', hc) {
   const fx = eq.map((id) => A.ITEMS.find((i) => i.id === id)).filter((i) => i && i.layer === 'fx');
   return `<div class="stage"><div class="bg">${A.svg(B.art(), '0 0 300 220')}</div>${fx.map((i) => `<div class="fx">${A.svg(i.art(), '0 0 300 220')}</div>`).join('')}${charHTML(eq, hc)}</div>`;
 }
-const cats = ['hair', 'eye', 'hat', 'face', 'wear', 'mitt', 'shoe', 'hand', 'acc'];
+const cats = ['hair', 'eye', 'hat', 'face', 'wear', 'mitt', 'shoe', 'hand', 'acc', 'fx'];
 const q = new URLSearchParams(location.search), only = q.get('cat'); if (q.get('w')) document.body.style.setProperty('--cw', q.get('w') + 'px');
 let html = '';
 if (!only || only === 'combo') html += `<h2>조합</h2><div class="grid">${[
